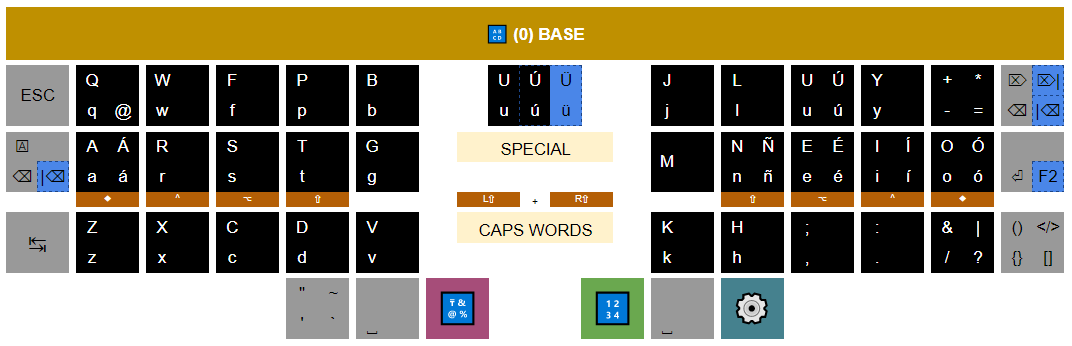
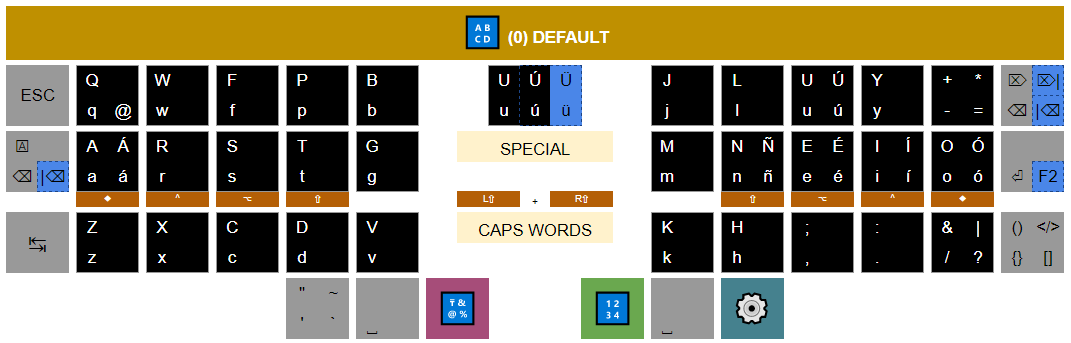
update images from layers

diff --git a/README.md b/README.md
@@ -16,7 +16,7 @@ This is a WIP layout based on Colemak DHm for using on Windows, taking in mind s
 - [Keyboard](#keyboard)
   - [Conventions](#conventions)
   - [Layouts](#layouts)
-    - [0. Base](#0-base-)
+    - [0. Default](#0-default-)
     - [1. Dev](#1-dev-)
     - [2. Actions/Numbers](#2-actionsnumbers-)
     - [3. Settings](#3-settings-)
@@ -54,20 +54,21 @@ The wireless version of the Swept use ZMK as their firmware, you can find out mo
 
 These pages will guide you to create your own keymap (follow them after your user-setup) [customization](https://zmk.dev/docs/customization) and [keymaps](https://zmk.dev/docs/features/keymaps)
 
-Once you make changes to your keymap, you can download the firmware from the github actions tab of your repo. Since the keyboards come pre-flashed by me, you only need to flash the left half to change your keymaps. You can do it by following these steps:
+Once you make changes to your keymap, you can download the firmware from the github actions tab of your repo. Since the keyboards come pre-flashed, you only need to flash the left half to change your keymaps. You can do it by following these steps:
 
-1. Turn off both halves.
+1. Turn off both halves
 
 2. Plug in the left half into your computer (without turning it on)
 
 3. "Double tap" the reset button, play around with the timing between taps since this might not work the first time. If you have trouble with this step, re-plug your board and try again, you might even need to use a different cable or port on your computer. You know this works if you see a blue light fading on and off coming from the nice nano.
 
-4. After the previous step you should see a new storage device in your computer called nice!nano, as shown in the picture below. Drag and drop (or copy and paste) the firmware file `corne_left-nice_nano_v2-zmk.uf2`  which you should have generated and downloaded by following the guides linked above.
+4. After the previous step you should see a new storage device in your computer called nice!nano, as shown in the picture below. Drag and drop (or copy and paste) the firmware file `corne_left-nice_nano_v2-zmk.uf2` which you should have generated and downloaded by following the guides linked above.
 
 5. Wait until the storage device automatically disappears from your computer, this should not take longer than a few seconds.
 
 6. Unplug the board from your computer
-Follow the procedure in "How to turn my keyboard on?"
+
+7. Follow the procedure in [How to turn my keyboard on?](#turn-onoff)
 
 ⇧ [Back to menu](#menu)
 
@@ -94,25 +95,29 @@ Icons used to describe some modifiers and actions
 | ⇪ | [Hold Tap](https://zmk.dev/docs/behaviors/hold-tap#hold-tap) |
 | 🔁 | [Key Repeat](https://zmk.dev/docs/behaviors/key-repeat) |
 
-Key modifiers Description
-
-![Key Map](./.github/images/key-map.png)
-
-### Layouts
-
-#### 0. Base 🔠
-
-Letters, accents for Spanish language and quick shortcuts for most used symbols to "avoid" changing layers.
-
-![Base Layer](./.github/images/0-layer.png)
-
-**Modifiers**
+**Shared Modifiers**
 
 | Combinations                             | Actions               |
 | ---------------------------------------: | --------------------- |
 | <kbd>⇪⌫</kbd>                           | delete word backward   |
 | <kbd>⇪⌦</kbd>                           | delete word forward    |
-| <kbd>⇪⏎</kbd>                           | rename (like macOS)    |
+| <kbd>⇪⏎</kbd>                            | rename (like macOS)    |
+| <kbd>⇪⏎</kbd>                            | rename (like macOS)    |
+| <kbd>⇧</kbd>+<kbd>⌫</kbd>               | caps lock              |
+| <kbd>L⇧</kbd>+<kbd>L⇧</kbd>              | caps word              |
+| <kbd>L^</kbd>+<kbd>L^</kbd>              | cancel caps            |
+
+![Key Map](./.github/images/key-map.png)
+
+Shared combinations
+
+### Layouts
+
+#### 0. Default 🔠
+
+Letters, accents for Spanish language and quick shortcuts for most used symbols to "avoid" changing layers.
+
+![Base Layer](./.github/images/0-layer.png)
 
 **Spanish**
 
@@ -154,11 +159,11 @@ Letters, accents for Spanish language and quick shortcuts for most used symbols 
 
 | Combinations                                        | Key |
 | --------------------------------------------------: | :-: |
-| <kbd>{}</kbd>                                       | {░}   |
-| <kbd>⇧</kbd>+<kbd>{}</kbd>                           | (░)   |
-| <kbd>⌥</kbd>+<kbd>{}</kbd>                           | [░]   |
-| <kbd>⇧</kbd>+<kbd>⌥</kbd>+<kbd>{}</kbd>              | </░>   |
-| <kbd>⇧</kbd>+<kbd>^</kbd>+<kbd>{}</kbd>              | <░/>   |
+| <kbd>{}</kbd>                                       | {░} |
+| <kbd>⇧</kbd>+<kbd>{}</kbd>                          | (░) |
+| <kbd>⌥</kbd>+<kbd>{}</kbd>                         | [░] |
+| <kbd>⇧</kbd>+<kbd>⌥</kbd>+<kbd>{}</kbd>            | </░> |
+| <kbd>⇧</kbd>+<kbd>^</kbd>+<kbd>{}</kbd>             | <░/> |
 
 #### 1. Dev 🔣
 
